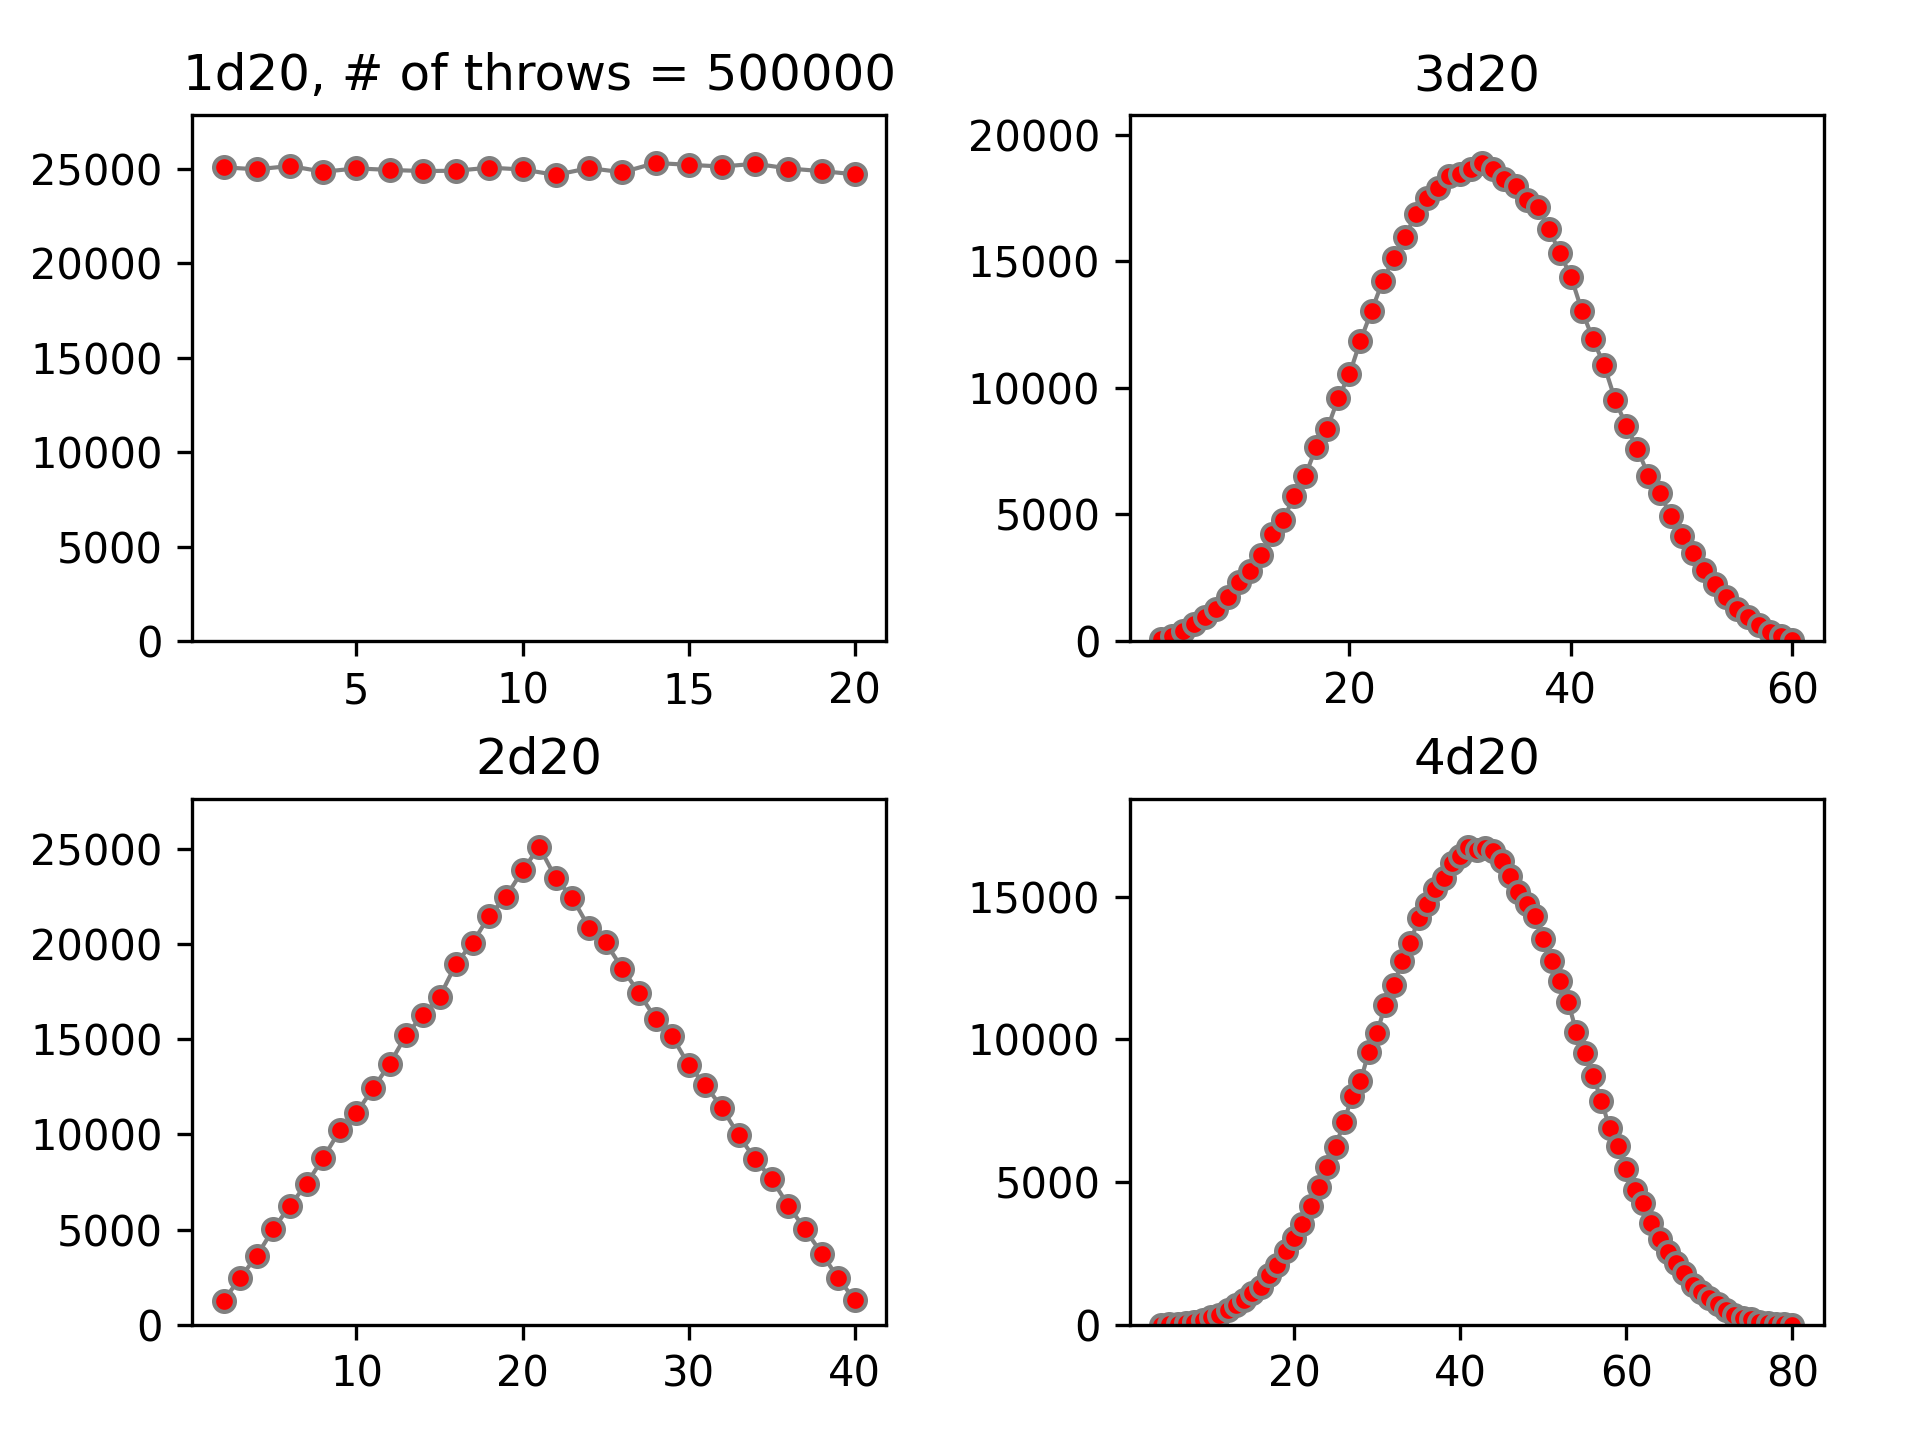
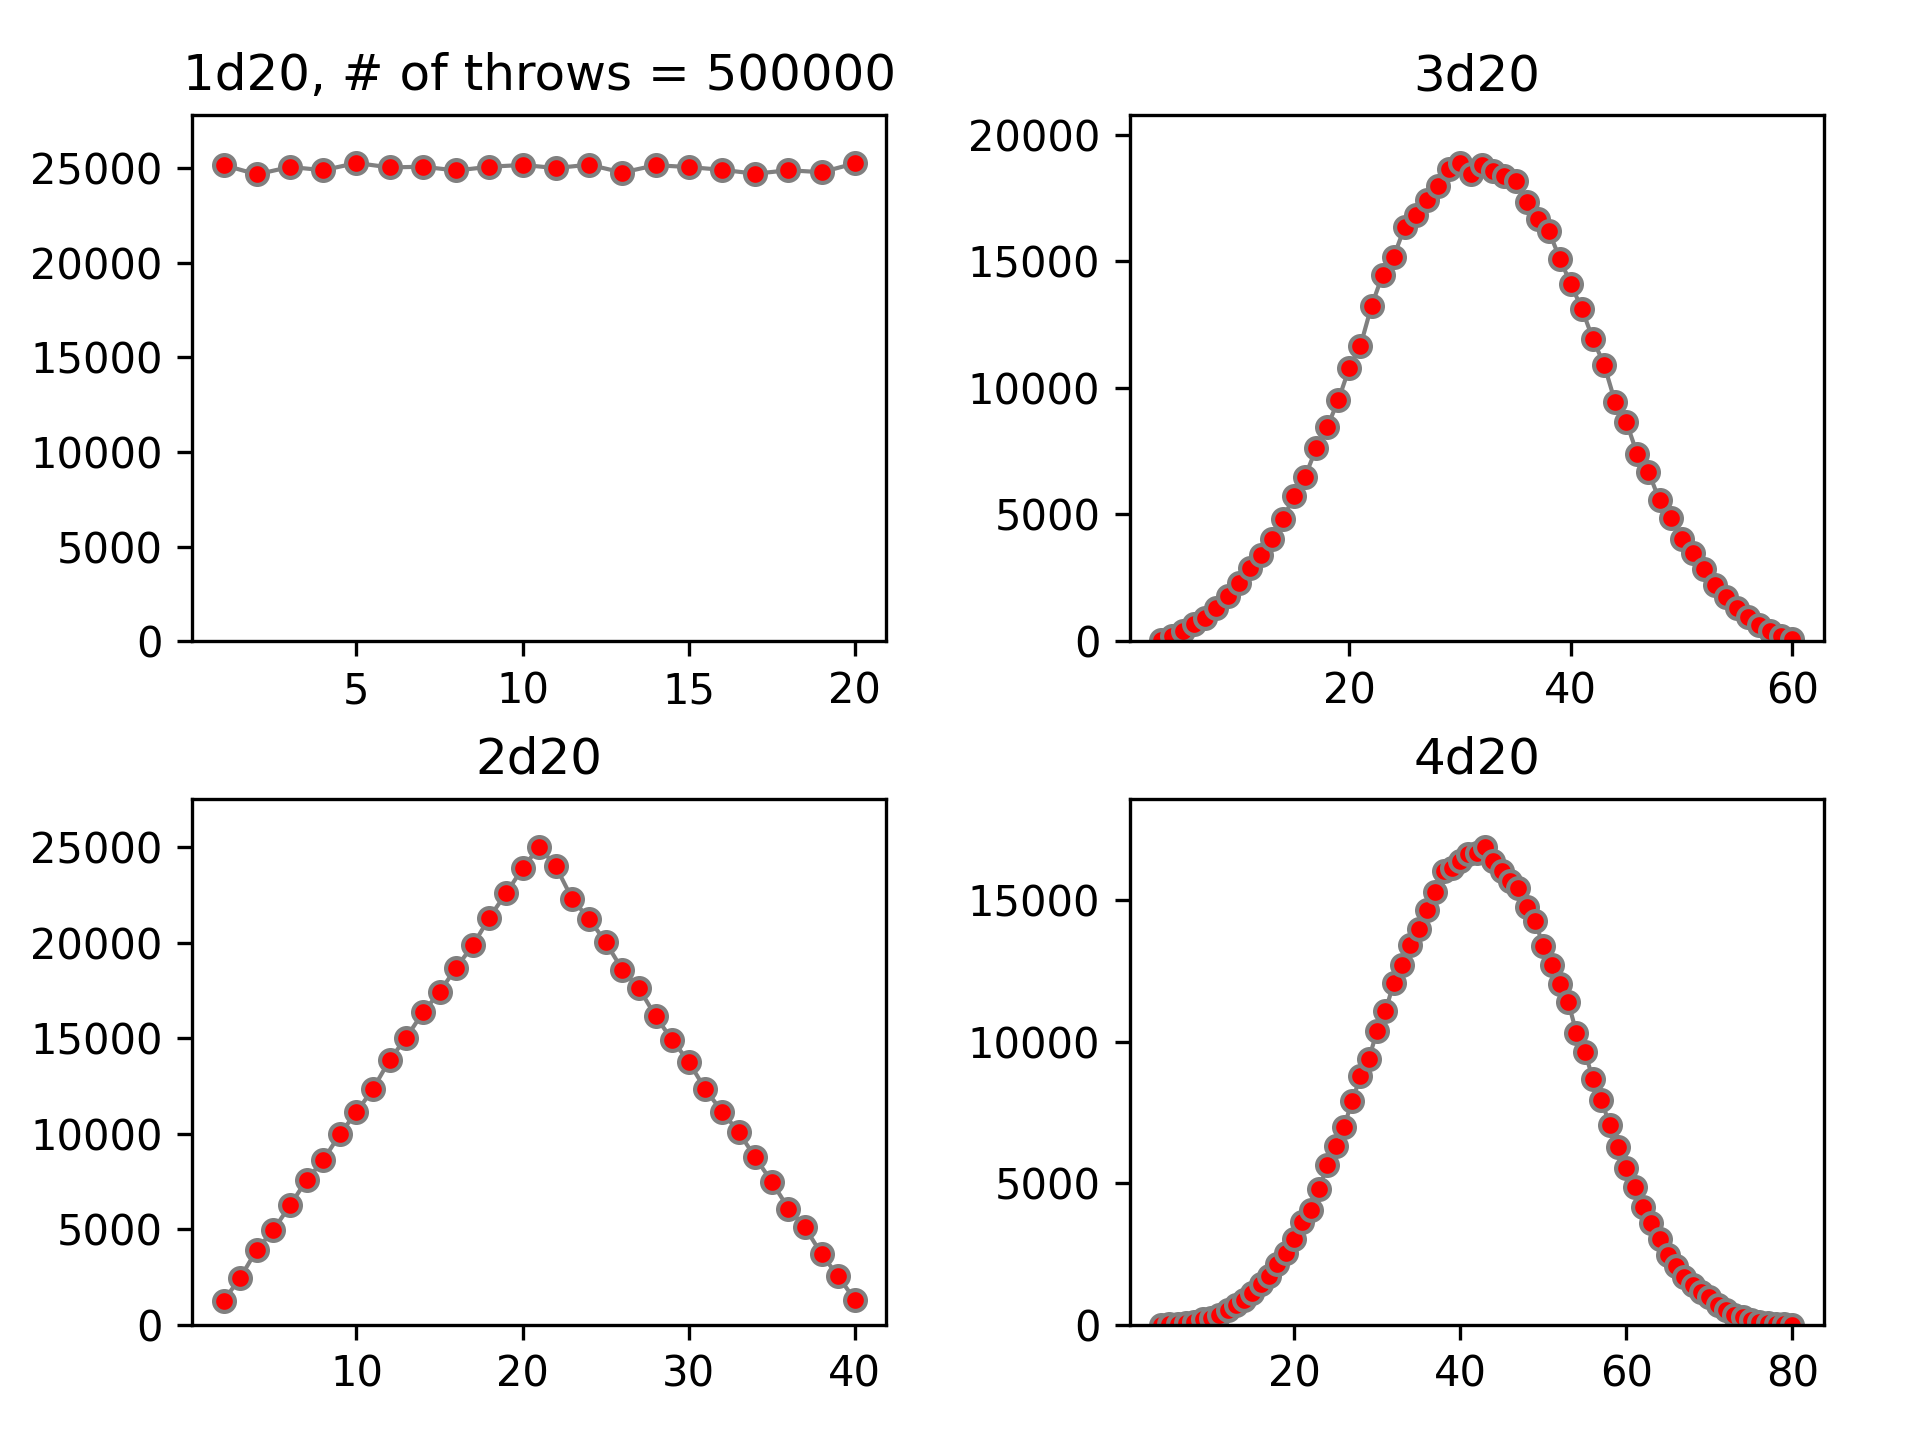
corrected name

diff --git a/dices-distribution.py b/dices-distribution.py
@@ -32,7 +32,6 @@ for dNr in range(1, dices_Nr_max + 1):
     for n2 in range(1, points_Nr):
         dices_sum = rand_dX(1, dice_Value_max, dices_Nr)
         index = dices_sum - 1 * dices_Nr
-        # print(n2, dices_sum, index)
         ys[index] += 1
 
     ys_max = max(ys)
@@ -54,17 +53,13 @@ marker_color = 'red' # 'blue'
 def make_plot(axs):
     box = dict(facecolor='yellow', pad=5, alpha=0.2)
 
-    # Fixing random state for reproducibility
-    # np.random.seed(19680801)
     ax1 = axs[0, 0]
     ax1.plot(xss[0],yss[0], marker='o', markerfacecolor=marker_color, markersize=5, color=plot_color, linewidth=1)
     ax1.set_title(titles[0])
-    #ax1.set_ylabel('misaligned 1', bbox=box)
     ax1.set_ylim(0, ys_maxs[0] * 1.1)
 
     
     ax3 = axs[1, 0]
-    #ax3.set_ylabel('misaligned 2', bbox=box)
     ax3.plot(xss[1],yss[1], marker='o', markerfacecolor=marker_color, markersize=5, color=plot_color, linewidth=1)
     ax3.set_title(titles[1])
     ax3.set_ylim(0, ys_maxs[1] * 1.1)
@@ -83,7 +78,6 @@ def make_plot(axs):
 
 # Plot 1:
 fig, axs = plt.subplots(2, 2)
-#fig.subplots_adjust(left=0.1, wspace=0.6)
 fig.subplots_adjust(top=0.92, bottom=0.08, left=0.10, right=0.95, hspace=0.3,
                     wspace=0.35)
 make_plot(axs)
